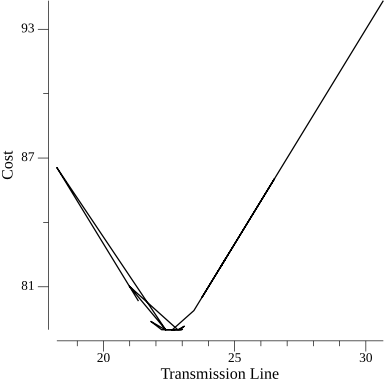
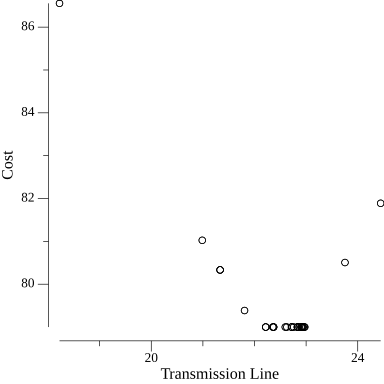
add prims

diff --git a/power_plant/prims/prims.go b/power_plant/prims/prims.go
@@ -1,0 +1,141 @@
+package main
+
+import (
+	"container/heap"
+	"fmt"
+	"math"
+
+	"gonum.org/v1/plot"
+	"gonum.org/v1/plot/plotter"
+	"gonum.org/v1/plot/vg"
+)
+
+func prims(powerPlants []loc) (float64, []edge) {
+	// build visited map
+	visited := make(map[loc]bool, len(powerPlants))
+	// build adjacency list of edges
+	adjList := make(map[loc][]edge, len(powerPlants))
+
+	// initialize visited map and adjacency list
+	for i, powerPlantI := range powerPlants {
+		visited[powerPlantI] = false
+		for j := i + 1; j < len(powerPlants); j++ {
+			powerPlantJ := powerPlants[j]
+			// from power plant I to power plant J
+			fromIToJ := edge{powerPlantI, powerPlantJ, calculateEdgeCost(powerPlants, i, j)}
+			adjList[powerPlantI] = append(adjList[powerPlantI], fromIToJ)
+			// from power plant J to power plant I
+			fromJToI := edge{powerPlantJ, powerPlantI, calculateEdgeCost(powerPlants, i, j)}
+			adjList[powerPlantJ] = append(adjList[powerPlantJ], fromJToI)
+		}
+	}
+
+	// initailize heap with point 0 edges
+	pointZeroEdges := adjList[powerPlants[0]]
+	h := make(Heap, len(pointZeroEdges))
+	copy(h, pointZeroEdges)
+	heap.Init(&h)
+	visited[powerPlants[0]] = true
+	visitedCount := 1
+	rollingCost := 0.0
+
+	// initialize data
+	edges := make([]edge, 0)
+
+	// loop until all power plants are visited
+	for h.Len() > 0 && visitedCount < len(powerPlants) {
+		// get neighbour edge with lowest cost
+		minEdge := heap.Pop(&h).(edge)
+		// we are going from current tree to new vertex
+		newVertex := minEdge.to
+		if visited[minEdge.to] {
+			continue
+		}
+		// process edge
+		visited[newVertex] = true
+		edges = append(edges, minEdge)
+		visitedCount++
+		rollingCost += minEdge.cost
+
+		// add neighbours of new edge to heap
+		for _, neighbourEdge := range adjList[newVertex] {
+			if !visited[neighbourEdge.to] {
+				heap.Push(&h, neighbourEdge)
+			}
+		}
+	}
+	return rollingCost, edges
+}
+
+func calculateEdgeCost(powerPlants []loc, i, j int) float64 {
+	sumSquares := math.Pow(powerPlants[i].x-powerPlants[j].x, 2) + math.Pow(powerPlants[i].y-powerPlants[j].y, 2)
+	return math.Pow(sumSquares, 0.5)
+}
+
+func plotCosts(powerPlants []loc, edges []edge) {
+	p := plot.New()
+	for _, edge := range edges {
+		pts := make(plotter.XYs, 2)
+		pts[0].X = edge.from.x
+		pts[0].Y = edge.from.y
+		pts[1].X = edge.to.x
+		pts[1].Y = edge.to.y
+		line, err := plotter.NewLine(pts)
+		if err != nil {
+			fmt.Println(err)
+		}
+		p.Add(line)
+	}
+	pts := make(plotter.XYs, len(powerPlants))
+	for i, powerPlant := range powerPlants {
+		pts[i].X = powerPlant.x
+		pts[i].Y = powerPlant.y
+	}
+	scatter, err := plotter.NewScatter(pts)
+	if err != nil {
+		fmt.Println(err)
+	}
+	p.Add(scatter)
+	if err := p.Save(4*vg.Inch, 4*vg.Inch, "line_graph.png"); err != nil {
+		fmt.Println(err)
+	}
+}
+
+type loc struct {
+	x float64
+	y float64
+}
+
+type edge struct {
+	from loc
+	to   loc
+	cost float64
+}
+
+type Heap []edge
+
+func (h *Heap) Push(x interface{}) { *h = append(*h, x.(edge)) }
+func (h *Heap) Pop() interface{} {
+	previous, n, popped := *h, h.Len(), edge{}
+	*h, popped = previous[:n-1], previous[n-1]
+	return popped
+}
+func (h Heap) Len() int           { return len(h) }
+func (h Heap) Swap(i, j int)      { h[i], h[j] = h[j], h[i] }
+func (h Heap) Less(i, j int) bool { return h[i].cost < h[j].cost }
+
+func main() {
+	powerPlants := []loc{
+		{12, 22},
+		{16, 38},
+		{18, 30},
+		{23, 23},
+		{22, 35},
+		{36, 26},
+		{32, 36},
+		{40, 35},
+	}
+	cost, edges := prims(powerPlants)
+	plotCosts(powerPlants, edges)
+	fmt.Println(cost, edges)
+}

diff --git a/power_plant/binary_search/binary_search.go b/power_plant/binary_search/binary_search.go
@@ -6,6 +6,7 @@ import (
 
 	"gonum.org/v1/plot"
 	"gonum.org/v1/plot/plotter"
+	"gonum.org/v1/plot/vg"
 )
 
 func binarySearch(powerPlants []loc) (float64, loc, loc, []point, []point) {
@@ -24,15 +25,15 @@ func binarySearch(powerPlants []loc) (float64, loc, loc, []point, []point) {
 	mostWest, mostEast := float64(mostWestInt), float64(mostEastInt)
 	eps := 1e-1
 	data1 := make([]point, 0)
-	// data2 := make([]point, 0)
+	data2 := make([]point, 0)
 	for mostEast-mostWest > eps {
 		// search space: [mostWest - mid1 - mid2 - mostEast]
 		mid1 := mostWest + (mostEast-mostWest)/3
 		cost1, _, _ := calculateCost(powerPlants, mid1)
 		mid2 := mostEast - (mostEast-mostWest)/3
 		cost2, _, _ := calculateCost(powerPlants, mid2)
-		// data1 = append(data1, point{mid1, cost1})
-		// data2 = append(data2, point{mid2, cost2})
+		data1 = append(data1, point{mid1, cost1})
+		data2 = append(data2, point{mid2, cost2})
 		// pick best search space
 		if cost1 < cost2 {
 			mostEast = mid2
@@ -83,26 +84,26 @@ func plotCosts(data1 []point, data2 []point) {
 		pts1[i].X = pt.x
 		pts1[i].Y = pt.cost
 	}
-	line1, err := plotter.NewLine(pts1)
+	line1, err := plotter.NewScatter(pts1)
 	if err != nil {
 		fmt.Println(err)
 	}
 	p.Add(line1)
-	// fmt.Println(line1)
-	// pts2 := make(plotter.XYs, len(data2))
-	// for i, pt := range data2 {
-	// 	pts2[i].X = pt.x
-	// 	pts2[i].Y = pt.cost
-	// }
-	// line2, err := plotter.NewLine(pts2)
-	// if err != nil {
-	// 	fmt.Println(err)
-	// }
-	// p.Add(line2)
-	// // fmt.Println(line2)
-	// if err := p.Save(4*vg.Inch, 4*vg.Inch, "line_graph.png"); err != nil {
-	// 	fmt.Println(err)
-	// }
+	fmt.Println(line1)
+	pts2 := make(plotter.XYs, len(data2))
+	for i, pt := range data2 {
+		pts2[i].X = pt.x
+		pts2[i].Y = pt.cost
+	}
+	line2, err := plotter.NewScatter(pts2)
+	if err != nil {
+		fmt.Println(err)
+	}
+	p.Add(line2)
+	// fmt.Println(line2)
+	if err := p.Save(4*vg.Inch, 4*vg.Inch, "line_graph.png"); err != nil {
+		fmt.Println(err)
+	}
 }
 
 func main() {
